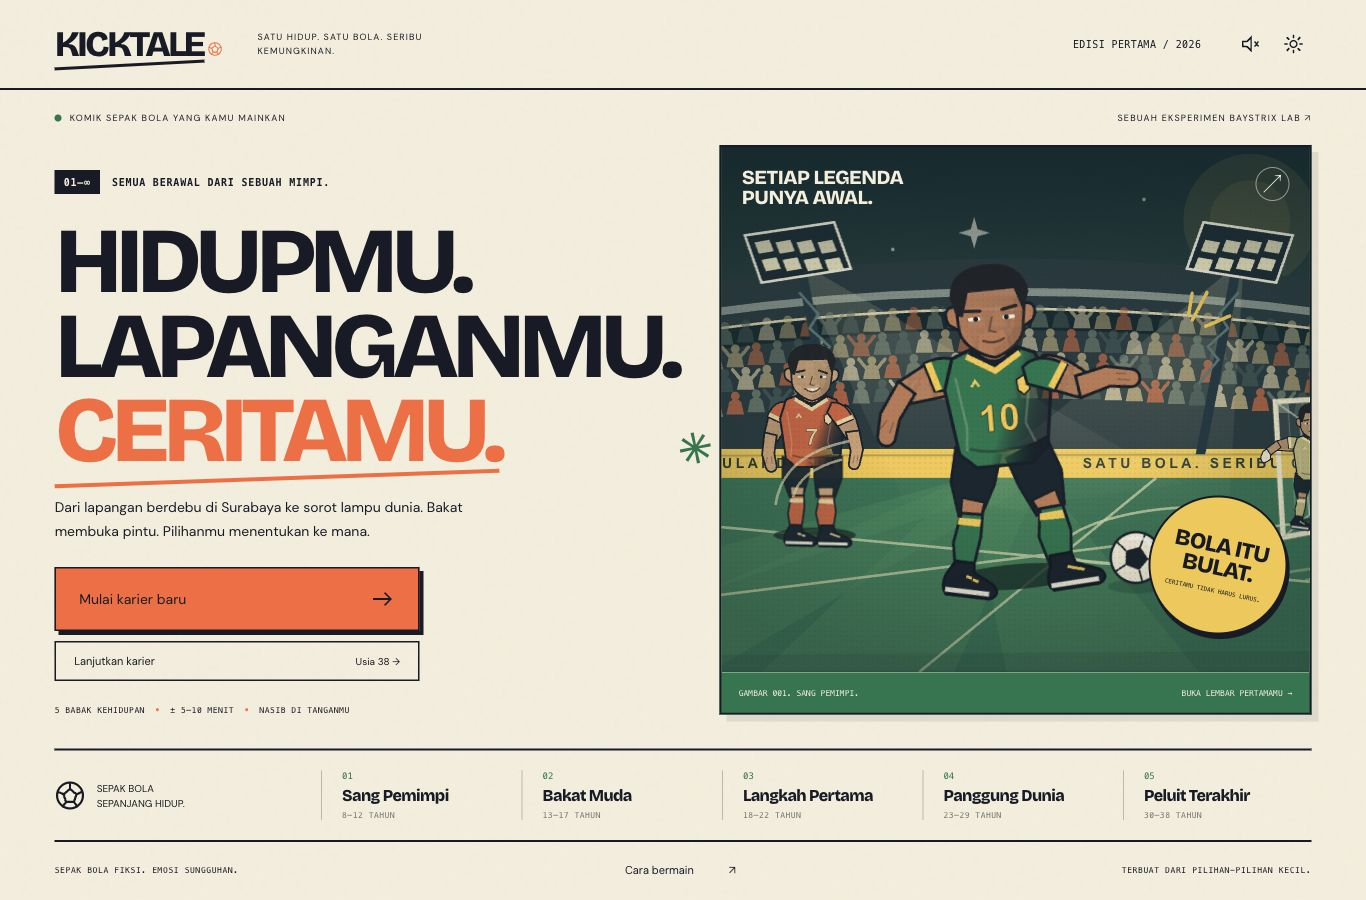
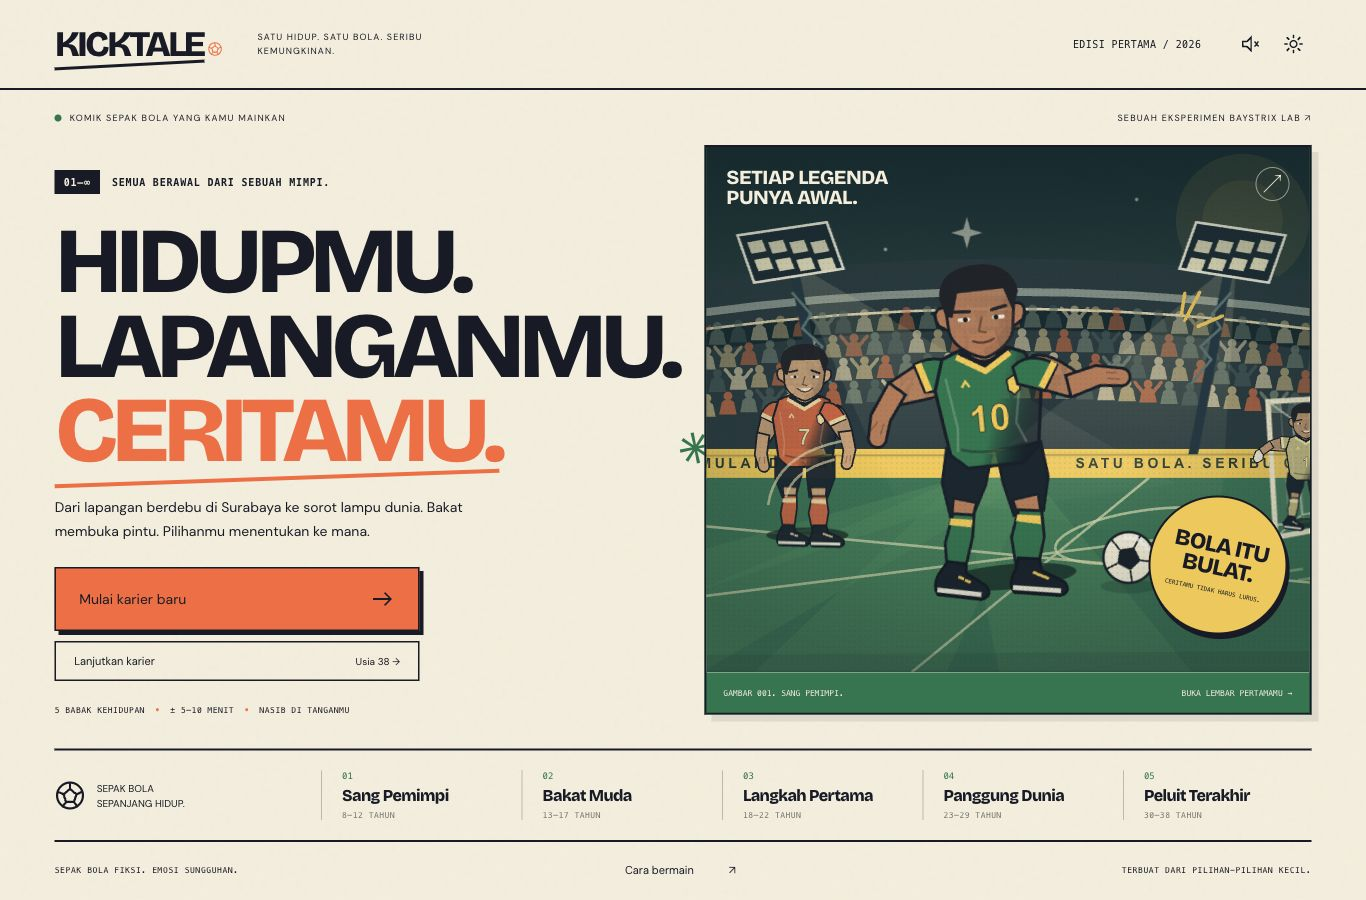
Update Site source

Changed region(s): [[0.4919, 0.1556, 0.9839, 0.8089], [0.7072, 0.2489, 0.7379, 0.28]]

diff --git a/src/game/card.ts b/src/game/card.ts
@@ -7,7 +7,7 @@ async function drawRig(x:CanvasRenderingContext2D):Promise<boolean>{
 export async function createCard(state:CareerState,ending:Ending,clubName:string,rating:number):Promise<Blob>{
  const c=document.createElement('canvas');c.width=1200;c.height=1600;const x=c.getContext('2d');if(!x)throw new Error('Canvas tidak tersedia.');
  x.fillStyle=paper;x.fillRect(0,0,1200,1600);x.fillStyle=green;x.fillRect(35,35,1130,1000);x.save();x.globalAlpha=.1;x.strokeStyle=paper;x.lineWidth=3;for(let i=-1000;i<1800;i+=70){x.beginPath();x.moveTo(i,35);x.lineTo(i+800,1035);x.stroke();}x.restore();
- const text=(s:string,px:number,y:number,size:number,color=ink,weight=800)=>{x.fillStyle=color;x.font=`${weight} ${size}px 'Bricolage', Arial, sans-serif`;x.fillText(s,px,y);};
+ const text=(s:string,px:number,y:number,size:number,color=ink,weight=800)=>{x.fillStyle=color;x.font=`${weight} ${size}px 'Bricolage', Arial, sans-serif`;x.fillText(s,px,y,Math.max(1,1120-px));};
  text('KICKTALE',75,145,82,paper);text('ARSIP SEBUAH KARIER',80,193,20,paper,500);text(String(rating),910,175,110,'#F4C644');
  // An original paper-cut portrait rendered locally at export resolution.
  if(!await drawRig(x)){x.save();x.translate(600,600);x.fillStyle='#102b29';x.beginPath();x.ellipse(0,360,280,35,0,0,Math.PI*2);x.fill();
